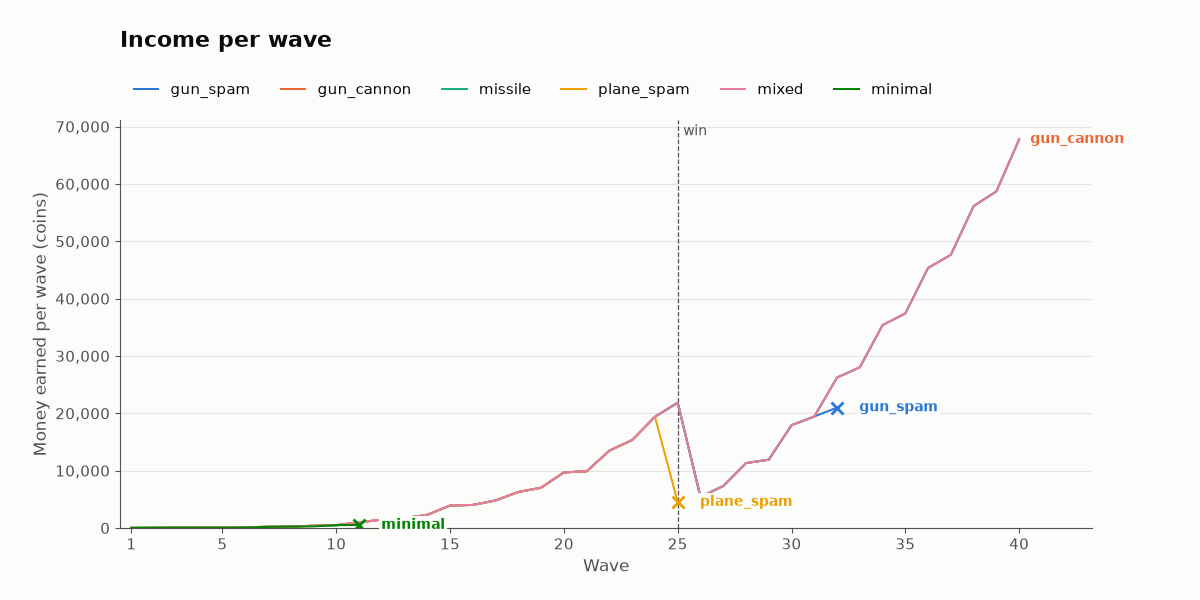
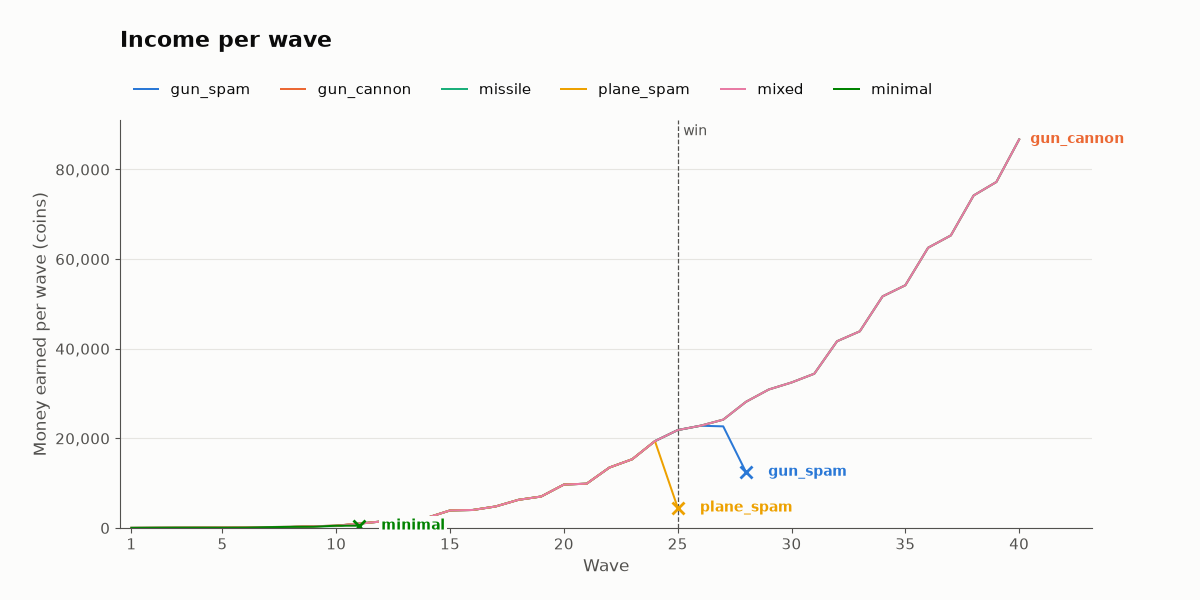
balance: Keep waves 26-30 climbing from wave 25
Review follow-up on #10: waves 26 to 30 start from wave 25's mix and add a
few enemies a wave at 500 ms spacing, so total HP never drops after the win
wave (105,764 in wave 26 up to 148,032 in wave 30). Regenerates the stats
page and the balance report; the devlog gets the new waves 26 to 40 results.

diff --git a/docs/balance/report.md b/docs/balance/report.md
@@ -28,16 +28,16 @@ A cross ends the line of a run that was lost; the dashed line is the win wave (2
 
 | strategy | result | lives left | lives lost 1-10 | lost 11-25 | lost 26+ | spent | earned | money left | towers lost | ROI gun | ROI missile | ROI cannon | ROI plane |
 |---|---|---:|---:|---:|---:|---:|---:|---:|---:|---:|---:|---:|---:|
-| gun_spam | died in wave 32 | 0 | 0 | 0 | 10 | 124100 | 218303 | 94403 | 834 | 1.76 |  |  |  |
-| gun_cannon | cleared 40 of 40 | 10 | 0 | 0 | 0 | 479180 | 599939 | 120959 | 626 | 0.51 |  | 1.39 |  |
-| missile | cleared 40 of 40 | 8 | 2 | 0 | 0 | 595160 | 599848 | 4888 | 174 | 6.17 | 1.0 |  |  |
+| gun_spam | died in wave 28 | 0 | 0 | 0 | 10 | 116000 | 181955 | 66155 | 753 | 1.57 |  |  |  |
+| gun_cannon | cleared 40 of 40 | 10 | 0 | 0 | 0 | 539740 | 854326 | 314786 | 858 | 0.61 |  | 1.79 |  |
+| missile | cleared 40 of 40 | 8 | 2 | 0 | 0 | 776040 | 854235 | 78395 | 260 | 6.17 | 1.1 |  |  |
 | plane_spam | died in wave 25 | 0 | 0 | 10 | 0 | 103720 | 106661 | 3141 | 93 | 1.36 |  | 3.54 | 0.06 |
-| mixed | cleared 40 of 40 | 10 | 0 | 0 | 0 | 595680 | 599939 | 4459 | 381 | 0.61 | 1.78 | 0.7 | 0.04 |
+| mixed | cleared 40 of 40 | 10 | 0 | 0 | 0 | 838780 | 854326 | 15746 | 522 | 0.6 | 2.0 | 0.87 | 0.06 |
 | minimal | died in wave 11 | 0 | 9 | 1 | 0 | 1600 | 2079 | 679 | 0 | 1.3 |  |  |  |
 
 ## gun_spam
 
-Rapid guns only, on the best tiles on both sides of the path. Died in wave 32.
+Rapid guns only, on the best tiles on both sides of the path. Died in wave 28.
 
 | wave | lives | lost | money | earned | spent | killed | escaped | towers | towers lost | dmg gun | dmg missile | dmg cannon | dmg plane | ROI gun | ROI missile | ROI cannon | ROI plane |
 |---:|---:|---:|---:|---:|---:|---:|---:|---:|---:|---:|---:|---:|---:|---:|---:|---:|---:|
@@ -66,13 +66,9 @@ Rapid guns only, on the best tiles on both sides of the path. Died in wave 32.
 | 23 | 10 | 0 | 26743 | 15342 | 5600 | 41 | 0 | 407 | 56 | 72955 | 0 | 0 | 0 | 1.47 | - | - | - |
 | 24 | 10 | 0 | 37132 | 19389 | 9000 | 45 | 0 | 407 | 90 | 90176 | 0 | 0 | 0 | 1.57 | - | - | - |
 | 25 | 10 | 0 | 46986 | 21854 | 12000 | 49 | 0 | 407 | 120 | 101010 | 0 | 0 | 0 | 1.61 | - | - | - |
-| 26 | 10 | 0 | 51802 | 5416 | 600 | 19 | 0 | 407 | 6 | 28124 | 0 | 0 | 0 | 1.66 | - | - | - |
-| 27 | 10 | 0 | 57920 | 7318 | 1200 | 21 | 0 | 407 | 12 | 36296 | 0 | 0 | 0 | 1.73 | - | - | - |
-| 28 | 10 | 0 | 65637 | 11317 | 3600 | 24 | 0 | 407 | 36 | 52814 | 0 | 0 | 0 | 1.79 | - | - | - |
-| 29 | 10 | 0 | 73449 | 11912 | 4100 | 25 | 0 | 407 | 41 | 55800 | 0 | 0 | 0 | 1.84 | - | - | - |
-| 30 | 10 | 0 | 80875 | 17926 | 10500 | 29 | 0 | 407 | 105 | 80430 | 0 | 0 | 0 | 1.83 | - | - | - |
-| 31 | 10 | 0 | 90011 | 19436 | 10300 | 32 | 0 | 407 | 103 | 88267 | 0 | 0 | 0 | 1.84 | - | - | - |
-| 32 | 0 | 10 | 94403 | 20992 | 16600 | 35 | 2 | 407 | 166 | 107798 | 0 | 0 | 0 | 1.76 | - | - | - |
+| 26 | 10 | 0 | 56907 | 22821 | 12900 | 50 | 0 | 407 | 129 | 105764 | 0 | 0 | 0 | 1.63 | - | - | - |
+| 27 | 5 | 5 | 65889 | 22682 | 13700 | 50 | 1 | 407 | 137 | 112314 | 0 | 0 | 0 | 1.63 | - | - | - |
+| 28 | 0 | 5 | 66155 | 12466 | 12200 | 44 | 2 | 407 | 122 | 99766 | 0 | 0 | 0 | 1.57 | - | - | - |
 
 ## gun_cannon
 
@@ -105,21 +101,21 @@ Rapid guns only, on the best tiles on both sides of the path. Died in wave 32.
 | 23 | 10 | 0 | 2823 | 15342 | 15040 | 41 | 0 | 137 | 27 | 11750 | 0 | 61205 | 0 | 0.61 | - | 1.14 | - |
 | 24 | 10 | 0 | 2732 | 19389 | 19480 | 45 | 0 | 158 | 35 | 12211 | 0 | 77965 | 0 | 0.56 | - | 1.14 | - |
 | 25 | 10 | 0 | 3026 | 21854 | 21560 | 49 | 0 | 177 | 45 | 11492 | 0 | 89518 | 0 | 0.54 | - | 1.14 | - |
-| 26 | 10 | 0 | 602 | 5416 | 7840 | 19 | 0 | 198 | 0 | 2570 | 0 | 25554 | 0 | 0.57 | - | 1.11 | - |
-| 27 | 10 | 0 | 1580 | 7318 | 6340 | 21 | 0 | 213 | 4 | 3312 | 0 | 32984 | 0 | 0.54 | - | 1.13 | - |
-| 28 | 10 | 0 | 3157 | 11317 | 9740 | 24 | 0 | 230 | 12 | 6497 | 0 | 46317 | 0 | 0.53 | - | 1.14 | - |
-| 29 | 10 | 0 | 3629 | 11912 | 11440 | 25 | 0 | 253 | 10 | 6238 | 0 | 49562 | 0 | 0.51 | - | 1.15 | - |
-| 30 | 10 | 0 | 3315 | 17926 | 18240 | 29 | 0 | 274 | 30 | 8827 | 0 | 71603 | 0 | 0.6 | - | 1.12 | - |
-| 31 | 10 | 0 | 6951 | 19436 | 15800 | 32 | 0 | 293 | 28 | 10274 | 0 | 77993 | 0 | 0.56 | - | 1.15 | - |
-| 32 | 10 | 0 | 3793 | 26242 | 29400 | 37 | 0 | 337 | 41 | 11035 | 0 | 105512 | 0 | 0.57 | - | 1.12 | - |
-| 33 | 10 | 0 | 3730 | 28017 | 28080 | 40 | 0 | 386 | 32 | 11596 | 0 | 113999 | 0 | 0.55 | - | 1.13 | - |
-| 34 | 10 | 0 | 3746 | 35376 | 35360 | 45 | 0 | 445 | 43 | 14144 | 0 | 142078 | 0 | 0.51 | - | 1.13 | - |
-| 35 | 10 | 0 | 3941 | 37415 | 37220 | 48 | 0 | 488 | 35 | 14904 | 0 | 151576 | 0 | 0.49 | - | 1.13 | - |
-| 36 | 10 | 0 | 4307 | 45346 | 44980 | 53 | 0 | 530 | 36 | 12911 | 0 | 186570 | 0 | 0.55 | - | 1.1 | - |
-| 37 | 10 | 0 | 4497 | 47650 | 47460 | 56 | 0 | 577 | 28 | 10272 | 0 | 200678 | 0 | 0.54 | - | 1.1 | - |
-| 38 | 10 | 0 | 18127 | 56130 | 42500 | 61 | 0 | 612 | 44 | 10929 | 0 | 235365 | 0 | 0.52 | - | 1.13 | - |
-| 39 | 10 | 0 | 67645 | 58698 | 9180 | 64 | 0 | 612 | 40 | 11284 | 0 | 247689 | 0 | 0.51 | - | 1.26 | - |
-| 40 | 10 | 0 | 120959 | 67754 | 14440 | 69 | 0 | 612 | 63 | 13173 | 0 | 283522 | 0 | 0.51 | - | 1.39 | - |
+| 26 | 10 | 0 | 2967 | 22821 | 22880 | 50 | 0 | 203 | 40 | 10723 | 0 | 95041 | 0 | 0.48 | - | 1.15 | - |
+| 27 | 10 | 0 | 3029 | 24182 | 24120 | 51 | 0 | 241 | 33 | 10628 | 0 | 101938 | 0 | 0.45 | - | 1.16 | - |
+| 28 | 10 | 0 | 3108 | 28159 | 28080 | 53 | 0 | 277 | 45 | 11842 | 0 | 116532 | 0 | 0.46 | - | 1.15 | - |
+| 29 | 10 | 0 | 3572 | 30904 | 30440 | 55 | 0 | 318 | 47 | 12156 | 0 | 128044 | 0 | 0.43 | - | 1.16 | - |
+| 30 | 10 | 0 | 3802 | 32470 | 32240 | 56 | 0 | 373 | 38 | 12106 | 0 | 135926 | 0 | 0.38 | - | 1.17 | - |
+| 31 | 10 | 0 | 3909 | 34427 | 34320 | 59 | 0 | 444 | 28 | 13750 | 0 | 144170 | 0 | 0.43 | - | 1.15 | - |
+| 32 | 10 | 0 | 3840 | 41671 | 41740 | 64 | 0 | 491 | 43 | 17571 | 0 | 170680 | 0 | 0.47 | - | 1.13 | - |
+| 33 | 10 | 0 | 4073 | 43893 | 43660 | 67 | 0 | 534 | 31 | 14020 | 0 | 185330 | 0 | 0.56 | - | 1.1 | - |
+| 34 | 10 | 0 | 4037 | 51684 | 51720 | 72 | 0 | 582 | 40 | 14636 | 0 | 217383 | 0 | 0.63 | - | 1.08 | - |
+| 35 | 10 | 0 | 22587 | 54170 | 35620 | 75 | 0 | 612 | 32 | 11676 | 0 | 232652 | 0 | 0.61 | - | 1.12 | - |
+| 36 | 10 | 0 | 73866 | 62539 | 11260 | 80 | 0 | 612 | 46 | 12142 | 0 | 267238 | 0 | 0.6 | - | 1.25 | - |
+| 37 | 10 | 0 | 127636 | 65290 | 11520 | 83 | 0 | 612 | 56 | 15552 | 0 | 277348 | 0 | 0.63 | - | 1.38 | - |
+| 38 | 10 | 0 | 184498 | 74202 | 17340 | 88 | 0 | 612 | 55 | 17410 | 0 | 312876 | 0 | 0.63 | - | 1.51 | - |
+| 39 | 10 | 0 | 246875 | 77217 | 14840 | 91 | 0 | 612 | 67 | 15884 | 0 | 329132 | 0 | 0.62 | - | 1.65 | - |
+| 40 | 10 | 0 | 314786 | 86711 | 18800 | 96 | 0 | 612 | 77 | 18431 | 0 | 366358 | 0 | 0.61 | - | 1.79 | - |
 
 ## missile
 
@@ -152,21 +148,21 @@ Rapid guns only, on the best tiles on both sides of the path. Died in wave 32.
 | 23 | 8 | 0 | 2892 | 15342 | 15060 | 41 | 0 | 68 | 5 | 0 | 72955 | 0 | 0 | 6.17 | 0.99 | - | - |
 | 24 | 8 | 0 | 3081 | 19389 | 19200 | 45 | 0 | 81 | 5 | 0 | 90176 | 0 | 0 | 6.17 | 1.0 | - | - |
 | 25 | 8 | 0 | 2935 | 21854 | 22000 | 49 | 0 | 93 | 8 | 0 | 101010 | 0 | 0 | 6.17 | 1.0 | - | - |
-| 26 | 8 | 0 | 1751 | 5416 | 6600 | 19 | 0 | 99 | 0 | 0 | 28124 | 0 | 0 | 6.17 | 0.99 | - | - |
-| 27 | 8 | 0 | 1709 | 7318 | 7360 | 21 | 0 | 106 | 0 | 0 | 36296 | 0 | 0 | 6.17 | 0.99 | - | - |
-| 28 | 8 | 0 | 3126 | 11317 | 9900 | 24 | 0 | 114 | 1 | 0 | 52814 | 0 | 0 | 6.17 | 1.0 | - | - |
-| 29 | 8 | 0 | 3698 | 11912 | 11340 | 25 | 0 | 121 | 3 | 0 | 55800 | 0 | 0 | 6.17 | 1.0 | - | - |
-| 30 | 8 | 0 | 6724 | 17926 | 14900 | 29 | 0 | 130 | 4 | 0 | 80430 | 0 | 0 | 6.17 | 1.02 | - | - |
-| 31 | 8 | 0 | 3660 | 19436 | 22500 | 32 | 0 | 143 | 8 | 0 | 88267 | 0 | 0 | 6.17 | 1.0 | - | - |
-| 32 | 8 | 0 | 3502 | 26242 | 26400 | 37 | 0 | 161 | 6 | 0 | 116547 | 0 | 0 | 6.17 | 1.0 | - | - |
-| 33 | 8 | 0 | 3859 | 28017 | 27660 | 40 | 0 | 179 | 8 | 0 | 125595 | 0 | 0 | 6.17 | 1.0 | - | - |
-| 34 | 8 | 0 | 4035 | 35376 | 35200 | 45 | 0 | 198 | 13 | 0 | 156222 | 0 | 0 | 6.17 | 1.0 | - | - |
-| 35 | 8 | 0 | 8110 | 37415 | 33340 | 48 | 0 | 213 | 15 | 0 | 166480 | 0 | 0 | 6.17 | 1.02 | - | - |
-| 36 | 8 | 0 | 3956 | 45346 | 49500 | 53 | 0 | 245 | 13 | 0 | 199481 | 0 | 0 | 6.17 | 1.0 | - | - |
-| 37 | 8 | 0 | 4146 | 47650 | 47460 | 56 | 0 | 270 | 19 | 0 | 210950 | 0 | 0 | 6.17 | 1.0 | - | - |
-| 38 | 8 | 0 | 4176 | 56130 | 56100 | 61 | 0 | 306 | 15 | 0 | 246294 | 0 | 0 | 6.17 | 1.0 | - | - |
-| 39 | 8 | 0 | 4234 | 58698 | 58640 | 64 | 0 | 336 | 23 | 0 | 258973 | 0 | 0 | 6.17 | 1.0 | - | - |
-| 40 | 8 | 0 | 4888 | 67754 | 67100 | 69 | 0 | 375 | 22 | 0 | 296695 | 0 | 0 | 6.17 | 1.0 | - | - |
+| 26 | 8 | 0 | 2996 | 22821 | 22760 | 50 | 0 | 111 | 3 | 0 | 105764 | 0 | 0 | 6.17 | 1.0 | - | - |
+| 27 | 8 | 0 | 3238 | 24182 | 23940 | 51 | 0 | 122 | 11 | 0 | 112566 | 0 | 0 | 6.17 | 1.0 | - | - |
+| 28 | 8 | 0 | 3137 | 28159 | 28260 | 53 | 0 | 137 | 11 | 0 | 128374 | 0 | 0 | 6.17 | 1.0 | - | - |
+| 29 | 8 | 0 | 3241 | 30904 | 30800 | 55 | 0 | 156 | 9 | 0 | 140200 | 0 | 0 | 6.17 | 1.0 | - | - |
+| 30 | 8 | 0 | 3491 | 32470 | 32220 | 56 | 0 | 179 | 8 | 0 | 148032 | 0 | 0 | 6.17 | 1.0 | - | - |
+| 31 | 8 | 0 | 3478 | 34427 | 34440 | 59 | 0 | 200 | 10 | 0 | 157920 | 0 | 0 | 6.17 | 1.0 | - | - |
+| 32 | 8 | 0 | 3689 | 41671 | 41460 | 64 | 0 | 221 | 17 | 0 | 188251 | 0 | 0 | 6.17 | 1.0 | - | - |
+| 33 | 8 | 0 | 3742 | 43893 | 43840 | 67 | 0 | 248 | 12 | 0 | 199350 | 0 | 0 | 6.17 | 1.0 | - | - |
+| 34 | 8 | 0 | 3726 | 51684 | 51700 | 72 | 0 | 279 | 16 | 0 | 232019 | 0 | 0 | 6.17 | 1.0 | - | - |
+| 35 | 8 | 0 | 4096 | 54170 | 53800 | 75 | 0 | 308 | 21 | 0 | 244328 | 0 | 0 | 6.17 | 1.0 | - | - |
+| 36 | 8 | 0 | 4115 | 62539 | 62520 | 80 | 0 | 346 | 20 | 0 | 279380 | 0 | 0 | 6.17 | 1.0 | - | - |
+| 37 | 8 | 0 | 4165 | 65290 | 65240 | 83 | 0 | 386 | 19 | 0 | 292900 | 0 | 0 | 6.17 | 1.0 | - | - |
+| 38 | 8 | 0 | 4167 | 74202 | 74200 | 88 | 0 | 429 | 25 | 0 | 330286 | 0 | 0 | 6.17 | 1.0 | - | - |
+| 39 | 8 | 0 | 23584 | 77217 | 57800 | 91 | 0 | 456 | 25 | 0 | 345016 | 0 | 0 | 6.17 | 1.03 | - | - |
+| 40 | 8 | 0 | 78395 | 86711 | 31900 | 96 | 0 | 456 | 29 | 0 | 384789 | 0 | 0 | 6.17 | 1.1 | - | - |
 
 ## plane_spam
 
@@ -231,21 +227,21 @@ The gun_cannon build up to wave 19, then from wave 20 only planes: one along the
 | 23 | 10 | 0 | 2703 | 15342 | 15240 | 41 | 0 | 111 | 8 | 3991 | 55109 | 12255 | 1600 | 0.87 | 1.7 | 0.45 | 0.0 |
 | 24 | 10 | 0 | 2972 | 19389 | 19120 | 45 | 0 | 130 | 12 | 3698 | 70237 | 14041 | 2200 | 0.74 | 1.78 | 0.43 | 0.0 |
 | 25 | 10 | 0 | 3166 | 21854 | 21660 | 49 | 0 | 146 | 16 | 4200 | 74842 | 18530 | 3438 | 0.63 | 1.79 | 0.48 | 0.01 |
-| 26 | 10 | 0 | 1562 | 5416 | 7020 | 19 | 0 | 158 | 0 | 1704 | 18549 | 7771 | 100 | 0.59 | 1.76 | 0.47 | 0.01 |
-| 27 | 10 | 0 | 1600 | 7318 | 7280 | 21 | 0 | 167 | 3 | 2280 | 24848 | 8668 | 500 | 0.57 | 1.79 | 0.46 | 0.01 |
-| 28 | 10 | 0 | 3697 | 11317 | 9220 | 24 | 0 | 177 | 3 | 2544 | 38611 | 11059 | 600 | 0.54 | 1.84 | 0.44 | 0.01 |
-| 29 | 10 | 0 | 3709 | 11912 | 11900 | 25 | 0 | 191 | 6 | 3264 | 38182 | 13854 | 500 | 0.5 | 1.85 | 0.43 | 0.01 |
-| 30 | 10 | 0 | 3395 | 17926 | 18240 | 29 | 0 | 209 | 12 | 3727 | 56622 | 18681 | 1400 | 0.45 | 1.84 | 0.45 | 0.01 |
-| 31 | 10 | 0 | 3671 | 19436 | 19160 | 32 | 0 | 225 | 13 | 3451 | 62104 | 20918 | 1794 | 0.42 | 1.85 | 0.45 | 0.03 |
-| 32 | 10 | 0 | 3513 | 26242 | 26400 | 37 | 0 | 252 | 15 | 4266 | 79723 | 29950 | 2608 | 0.38 | 1.86 | 0.42 | 0.09 |
-| 33 | 10 | 0 | 3990 | 28017 | 27540 | 40 | 0 | 275 | 19 | 5616 | 85214 | 31465 | 3300 | 0.35 | 1.89 | 0.4 | 0.1 |
-| 34 | 10 | 0 | 4006 | 35376 | 35360 | 45 | 0 | 301 | 30 | 8209 | 102409 | 41104 | 4500 | 0.66 | 1.76 | 0.51 | 0.08 |
-| 35 | 10 | 0 | 3881 | 37415 | 37540 | 48 | 0 | 331 | 30 | 8638 | 100066 | 52376 | 5400 | 0.63 | 1.69 | 0.61 | 0.07 |
-| 36 | 10 | 0 | 4447 | 45346 | 44780 | 53 | 0 | 371 | 32 | 11474 | 116160 | 64847 | 7000 | 0.62 | 1.65 | 0.68 | 0.06 |
-| 37 | 10 | 0 | 4237 | 47650 | 47860 | 56 | 0 | 406 | 41 | 10834 | 117862 | 75854 | 6400 | 0.66 | 1.63 | 0.69 | 0.05 |
-| 38 | 10 | 0 | 4267 | 56130 | 56100 | 61 | 0 | 450 | 36 | 13316 | 133877 | 89001 | 10100 | 0.62 | 1.63 | 0.7 | 0.05 |
-| 39 | 10 | 0 | 4605 | 58698 | 58360 | 64 | 0 | 480 | 44 | 13084 | 127551 | 105438 | 12900 | 0.62 | 1.67 | 0.71 | 0.04 |
-| 40 | 10 | 0 | 4459 | 67754 | 67900 | 69 | 0 | 524 | 35 | 10525 | 120484 | 148286 | 17400 | 0.61 | 1.78 | 0.7 | 0.04 |
+| 26 | 10 | 0 | 3407 | 22821 | 22580 | 50 | 0 | 165 | 14 | 4217 | 79377 | 19510 | 2660 | 0.59 | 1.73 | 0.59 | 0.01 |
+| 27 | 10 | 0 | 3249 | 24182 | 24340 | 51 | 0 | 186 | 18 | 5116 | 80156 | 23994 | 3300 | 0.52 | 1.68 | 0.68 | 0.01 |
+| 28 | 10 | 0 | 3148 | 28159 | 28260 | 53 | 0 | 203 | 27 | 6337 | 84698 | 33201 | 4138 | 0.58 | 1.7 | 0.66 | 0.02 |
+| 29 | 10 | 0 | 3252 | 30904 | 30800 | 55 | 0 | 231 | 19 | 6024 | 91932 | 37644 | 4600 | 0.54 | 1.73 | 0.64 | 0.01 |
+| 30 | 10 | 0 | 3802 | 32470 | 31920 | 56 | 0 | 258 | 22 | 6039 | 99720 | 37473 | 4800 | 0.65 | 1.74 | 0.63 | 0.01 |
+| 31 | 10 | 0 | 3449 | 34427 | 34780 | 59 | 0 | 296 | 17 | 7681 | 100500 | 44537 | 5202 | 0.63 | 1.73 | 0.64 | 0.02 |
+| 32 | 10 | 0 | 3680 | 41671 | 41440 | 64 | 0 | 330 | 30 | 8603 | 115447 | 57601 | 6600 | 0.59 | 1.7 | 0.69 | 0.01 |
+| 33 | 10 | 0 | 3713 | 43893 | 43860 | 67 | 0 | 367 | 32 | 10312 | 118598 | 63240 | 7200 | 0.58 | 1.69 | 0.71 | 0.01 |
+| 34 | 10 | 0 | 3857 | 51684 | 51540 | 72 | 0 | 417 | 30 | 11581 | 127199 | 83439 | 9800 | 0.69 | 1.68 | 0.69 | 0.01 |
+| 35 | 10 | 0 | 3887 | 54170 | 54140 | 75 | 0 | 451 | 38 | 12042 | 133124 | 89362 | 9800 | 0.76 | 1.63 | 0.74 | 0.01 |
+| 36 | 10 | 0 | 3926 | 62539 | 62500 | 80 | 0 | 489 | 45 | 11672 | 148532 | 103689 | 15487 | 0.71 | 1.7 | 0.73 | 0.02 |
+| 37 | 10 | 0 | 4196 | 65290 | 65020 | 83 | 0 | 528 | 33 | 10988 | 131942 | 131940 | 18030 | 0.68 | 1.82 | 0.71 | 0.02 |
+| 38 | 10 | 0 | 4118 | 74202 | 74280 | 88 | 0 | 572 | 44 | 11818 | 119080 | 177988 | 21400 | 0.66 | 1.89 | 0.73 | 0.02 |
+| 39 | 10 | 0 | 9895 | 77217 | 71440 | 91 | 0 | 612 | 41 | 11074 | 110566 | 201318 | 22058 | 0.63 | 1.96 | 0.76 | 0.02 |
+| 40 | 10 | 0 | 15746 | 86711 | 80860 | 96 | 0 | 612 | 50 | 9432 | 106683 | 214010 | 54664 | 0.6 | 2.0 | 0.87 | 0.06 |
 
 ## minimal
 

diff --git a/docs/stats/waves.md b/docs/stats/waves.md
@@ -35,18 +35,18 @@ Clearing wave 25 wins the run. Waves after 30 are generated by the game (endless
 | 23 | 15x Fast runner, 12x Bruiser, 9x Heavy, 4x Tank, 1x Siege tank | 41 | 1,000 ms | 72,955 | $15,342 | 94 | $82,943 |
 | 24 | 16x Fast runner, 13x Bruiser, 10x Heavy, 4x Tank, 2x Siege tank | 45 | 1,000 ms | 90,176 | $19,389 | 108 | $102,332 |
 | 25 (win) | 18x Fast runner, 14x Bruiser, 10x Heavy, 5x Tank, 2x Siege tank | 49 | 500 ms | 101,010 | $21,854 | 117 | $124,186 |
-| 26 | 8x Fast runner, 6x Bruiser, 4x Heavy, 1x Tank | 19 | 1,000 ms | 28,124 | $5,416 | 37 | $129,602 |
-| 27 | 8x Fast runner, 7x Bruiser, 4x Heavy, 2x Tank | 21 | 1,000 ms | 36,296 | $7,318 | 44 | $136,920 |
-| 28 | 9x Fast runner, 7x Bruiser, 5x Heavy, 2x Tank, 1x Siege tank | 24 | 1,000 ms | 52,814 | $11,317 | 56 | $148,237 |
-| 29 | 9x Fast runner, 8x Bruiser, 5x Heavy, 2x Tank, 1x Siege tank | 25 | 1,000 ms | 55,800 | $11,912 | 58 | $160,149 |
-| 30 | 10x Fast runner, 8x Bruiser, 6x Heavy, 3x Tank, 2x Siege tank | 29 | 600 ms | 80,430 | $17,926 | 75 | $178,075 |
-| 31 (endless) | 11x Fast runner, 9x Bruiser, 7x Heavy, 3x Tank, 2x Siege tank | 32 | 590 ms | 88,267 | $19,436 | 81 | $197,511 |
-| 32 (endless) | 12x Fast runner, 10x Bruiser, 8x Heavy, 4x Tank, 3x Siege tank | 37 | 580 ms | 116,547 | $26,242 | 100 | $223,753 |
-| 33 (endless) | 13x Fast runner, 11x Bruiser, 9x Heavy, 4x Tank, 3x Siege tank | 40 | 570 ms | 125,595 | $28,017 | 106 | $251,770 |
-| 34 (endless) | 14x Fast runner, 12x Bruiser, 10x Heavy, 5x Tank, 4x Siege tank | 45 | 560 ms | 156,222 | $35,376 | 125 | $287,146 |
-| 35 (endless) | 15x Fast runner, 13x Bruiser, 11x Heavy, 5x Tank, 4x Siege tank | 48 | 550 ms | 166,480 | $37,415 | 131 | $324,561 |
-| 36 (endless) | 16x Fast runner, 14x Bruiser, 12x Heavy, 6x Tank, 5x Siege tank | 53 | 540 ms | 199,481 | $45,346 | 150 | $369,907 |
-| 37 (endless) | 17x Fast runner, 15x Bruiser, 13x Heavy, 6x Tank, 5x Siege tank | 56 | 530 ms | 210,950 | $47,650 | 156 | $417,557 |
-| 38 (endless) | 18x Fast runner, 16x Bruiser, 14x Heavy, 7x Tank, 6x Siege tank | 61 | 520 ms | 246,294 | $56,130 | 175 | $473,687 |
-| 39 (endless) | 19x Fast runner, 17x Bruiser, 15x Heavy, 7x Tank, 6x Siege tank | 64 | 510 ms | 258,973 | $58,698 | 181 | $532,385 |
-| 40 (endless) | 20x Fast runner, 18x Bruiser, 16x Heavy, 8x Tank, 7x Siege tank | 69 | 500 ms | 296,695 | $67,754 | 200 | $600,139 |
+| 26 | 18x Fast runner, 15x Bruiser, 10x Heavy, 5x Tank, 2x Siege tank | 50 | 500 ms | 105,764 | $22,821 | 119 | $147,007 |
+| 27 | 18x Fast runner, 15x Bruiser, 11x Heavy, 5x Tank, 2x Siege tank | 51 | 500 ms | 112,566 | $24,182 | 122 | $171,189 |
+| 28 | 19x Fast runner, 15x Bruiser, 11x Heavy, 5x Tank, 3x Siege tank | 53 | 500 ms | 128,374 | $28,159 | 131 | $199,348 |
+| 29 | 19x Fast runner, 16x Bruiser, 11x Heavy, 6x Tank, 3x Siege tank | 55 | 500 ms | 140,200 | $30,904 | 138 | $230,252 |
+| 30 | 19x Fast runner, 16x Bruiser, 12x Heavy, 6x Tank, 3x Siege tank | 56 | 500 ms | 148,032 | $32,470 | 141 | $262,722 |
+| 31 (endless) | 20x Fast runner, 17x Bruiser, 13x Heavy, 6x Tank, 3x Siege tank | 59 | 490 ms | 157,920 | $34,427 | 147 | $297,149 |
+| 32 (endless) | 21x Fast runner, 18x Bruiser, 14x Heavy, 7x Tank, 4x Siege tank | 64 | 480 ms | 188,251 | $41,671 | 166 | $338,820 |
+| 33 (endless) | 22x Fast runner, 19x Bruiser, 15x Heavy, 7x Tank, 4x Siege tank | 67 | 470 ms | 199,350 | $43,893 | 172 | $382,713 |
+| 34 (endless) | 23x Fast runner, 20x Bruiser, 16x Heavy, 8x Tank, 5x Siege tank | 72 | 460 ms | 232,019 | $51,684 | 191 | $434,397 |
+| 35 (endless) | 24x Fast runner, 21x Bruiser, 17x Heavy, 8x Tank, 5x Siege tank | 75 | 450 ms | 244,328 | $54,170 | 197 | $488,567 |
+| 36 (endless) | 25x Fast runner, 22x Bruiser, 18x Heavy, 9x Tank, 6x Siege tank | 80 | 440 ms | 279,380 | $62,539 | 216 | $551,106 |
+| 37 (endless) | 26x Fast runner, 23x Bruiser, 19x Heavy, 9x Tank, 6x Siege tank | 83 | 430 ms | 292,900 | $65,290 | 222 | $616,396 |
+| 38 (endless) | 27x Fast runner, 24x Bruiser, 20x Heavy, 10x Tank, 7x Siege tank | 88 | 420 ms | 330,286 | $74,202 | 241 | $690,598 |
+| 39 (endless) | 28x Fast runner, 25x Bruiser, 21x Heavy, 10x Tank, 7x Siege tank | 91 | 410 ms | 345,016 | $77,217 | 247 | $767,815 |
+| 40 (endless) | 29x Fast runner, 26x Bruiser, 22x Heavy, 11x Tank, 8x Siege tank | 96 | 400 ms | 384,789 | $86,711 | 266 | $854,526 |

diff --git a/docs/devlog/2026-11-09-wave-balance.md b/docs/devlog/2026-11-09-wave-balance.md
@@ -80,7 +80,7 @@ The full 40-wave simulation with B (seed 70, x4, saves redirected), against the 
 
 | strategy | before | after |
 |---|---|---|
-| gun_spam | died wave 32, 4 lives lost in 1-10 | died wave 32, 0 lives lost in 1-25 (all 10 lost in wave 32), 834 towers lost (450) |
+| gun_spam | died wave 32, 4 lives lost in 1-10 | died wave 28, 0 lives lost in 1-26 (5 lost in wave 27 and 5 in wave 28), 753 towers lost (450) |
 | gun_cannon | cleared 40, 6 lives left | cleared 40, 10 lives left |
 | missile | cleared 40, 3 lives left | cleared 40, 8 lives left (2 lost, in wave 10) |
 | plane_spam | died wave 29 | died wave 25 (all 10 lives lost in wave 25) |
@@ -92,10 +92,40 @@ the simulation B's extra pressure only shows as the plane-only build dying in wa
 planes at wave 20 and meets the first of the waves with 5 tanks and 2 heavy tanks) and the minimal
 build dying a wave earlier. The builds with guns, cannons or missiles still lose no lives in
 waves 11 to 25, because the bots rebuild within half a second of game time at x4, which a player
-can't do. Whether 11 to 25 now feels tight but fair is for the play-test to say. Waves 26 to 40 were
-never simulated for B before this run: the same builds clear them, gun_spam still dies in wave 32
-(now losing all 10 lives in that one wave), and the tank wear is higher (834 towers lost for
-gun_spam, 626 for gun_cannon). Income is higher too (599,939 earned by wave 40 against 514,954), since
-there are more and tougher enemies to kill.
+can't do. Whether 11 to 25 now feels tight but fair is for the play-test to say. Waves 26 to 40 are described under the review follow-up below.
+
+### Review follow-up: waves 26 to 30
+
+The review of the PR pointed out that B's wave 25 (101,010 HP) was followed by the old wave 26 at
+28,124 HP, so the difficulty fell by three quarters right after the win wave and only climbed
+back to wave 25's level at wave 32. The owner decided to rescale waves 26 to 30 and to keep wave 25
+as it is (to be judged in the play-test); the menu demo showing tanks is fine. Waves 26 to 30 now
+start from wave 25's mix and add a few enemies a wave, at 500 ms spacing like wave 25 (no new enemy
+types; kill money per HP is untouched):
+
+| wave | 24 | 25 | 26 | 27 | 28 | 29 | 30 | 31 (endless) | 32 (endless) |
+|---|--:|--:|--:|--:|--:|--:|--:|--:|--:|
+| total HP before | 90,176 | 101,010 | 28,124 | 36,296 | 52,814 | 55,800 | 80,430 | 88,267 | 116,547 |
+| total HP now | 90,176 | 101,010 | 105,764 | 112,566 | 128,374 | 140,200 | 148,032 | 157,920 | 188,251 |
+
+The endless generator keeps wave 30's mix and adds to every group, so waves 31 and 32 can't dip
+below wave 30; the generator is unchanged. The cost is that endless waves start from a stronger
+wave 30 too.
+
+The full 40-wave run with the rescaled waves (seed 70, x4):
+
+| strategy | waves 26 to 40 |
+|---|---|
+| gun_spam | dies in wave 28, losing 5 lives in wave 27 and 5 in wave 28 (it died in wave 32 before); 66,155 money unspent, 753 towers lost |
+| gun_cannon | clears 40 with 10 lives; 858 towers lost in all (580 on main), up to 77 in one wave from wave 26 on; 314,786 money unspent |
+| missile | clears 40 with 8 lives; 260 towers lost (176) |
+| plane_spam | died in wave 25, before these waves |
+| mixed | clears 40 with 10 lives; 522 towers lost (396) |
+| minimal | died in wave 11 |
+
+The tank wear is heavier, and the builds that clear 40 do it with a lot of money left over
+(gun_cannon 314,786, missile 78,395), so the bots still rebuild everything the tanks destroy; a
+player can't rebuild that fast, so real runs will be tighter than here. Earnings reach 854,326 by
+wave 40 (514,954 on main) because the enemies carry more HP and money.
 
 Charts of the full run are in [`docs/balance/`](../balance/report.md).

diff --git a/CHANGELOG.md b/CHANGELOG.md
@@ -20,7 +20,7 @@ Sections follow Keep a Changelog's order (Added, Changed, Deprecated, Removed, F
 
 ### Changed
 
-- Wave balance (#10): waves 4 to 6 are gentler, so a normal build no longer leaks there, and waves 11 to 25 are tougher: the first heavy arrives in wave 11, the first tank in wave 15 and the first heavy tank in wave 22, with more enemies and tighter spacing ([#170](https://github.com/vectorviolet/chokepoint/pull/170), [devlog](docs/devlog/2026-11-09-wave-balance.md)).
+- Wave balance (#10): waves 4 to 6 are gentler, so a normal build no longer leaks there, and waves 11 to 25 are tougher: the first heavy arrives in wave 11, the first tank in wave 15 and the first heavy tank in wave 22, with more enemies and tighter spacing, and waves 26 to 30 now keep climbing from wave 25 instead of dropping back ([#170](https://github.com/vectorviolet/chokepoint/pull/170), [devlog](docs/devlog/2026-11-09-wave-balance.md)).
 
 ### Development
 
